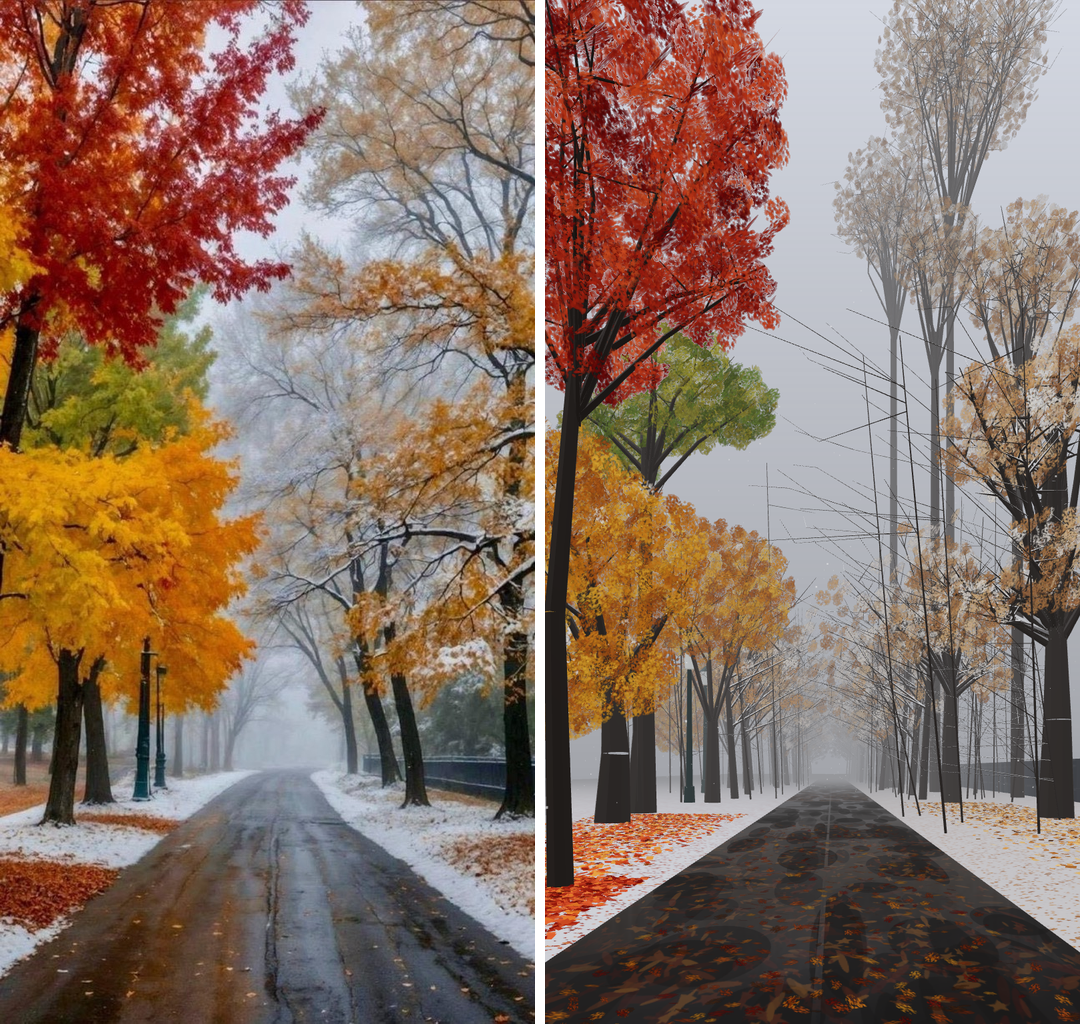
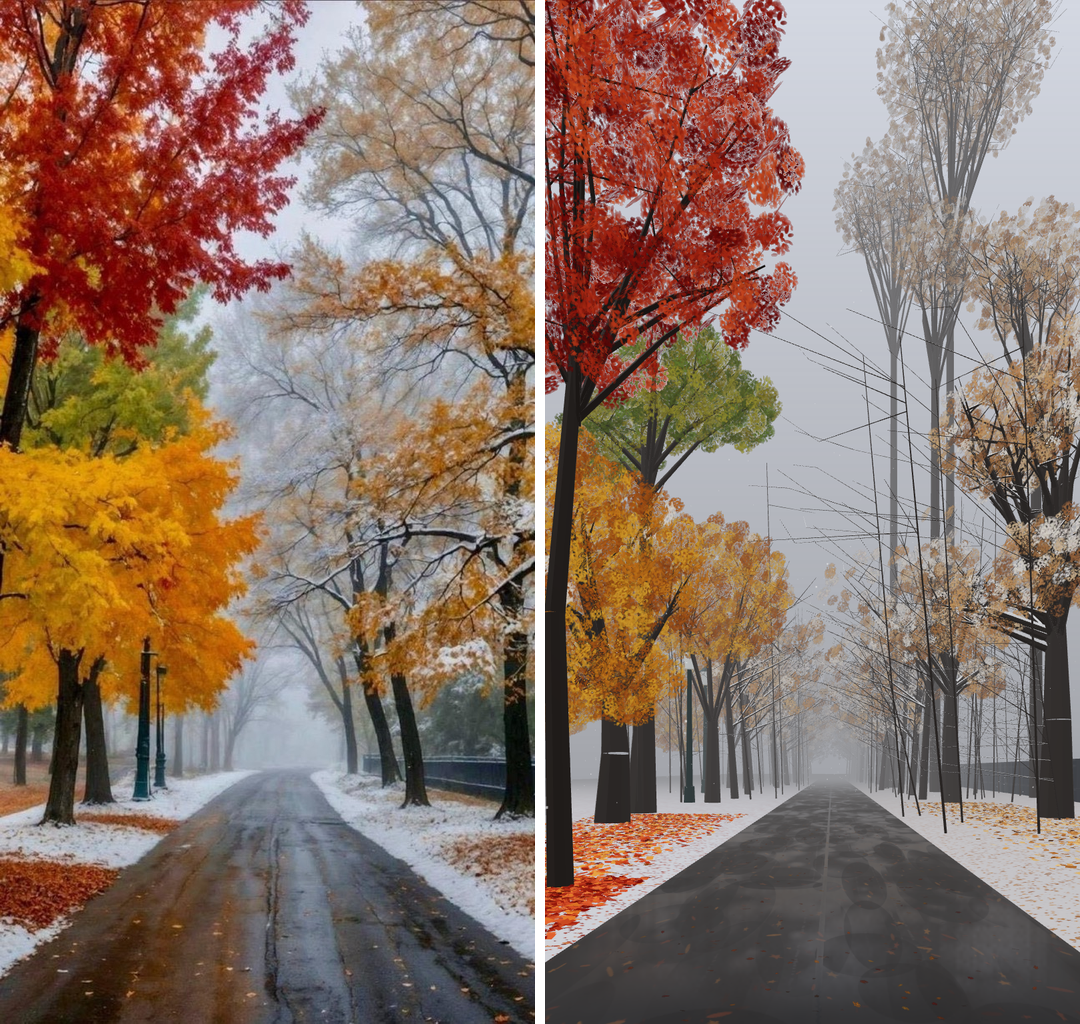
Slimmer road marks and litter; keep wet asphalt sheen
Shrink tyre streaks and puddle blobs that read as oversized footprints,
cut road leaf density, and restore wet clearcoat/reflection so the
surface stays muddy-wet rather than dry.

Changed region(s): [[0.4889, 0.0, 1.0, 0.75], [0.4889, 0.7812, 1.0, 1.0]]

diff --git a/src/textures.ts b/src/textures.ts
@@ -84,34 +84,33 @@ export function roadTextures(seed: number) {
     g.fillStyle = `rgba(${v + warm},${v + 2},${v},0.4)`;
     g.fillRect(r() * W, r() * H, 1 + r() * 2, 1 + r() * 2);
   }
-  // tyre / wet longitudinal streaks (broken, not clean lines)
-  for (let s = 0; s < 14; s++) {
-    const x0 = W * (0.08 + r() * 0.84);
-    const wobble = 3 + r() * 8;
-    for (let y = 0; y < H; y += 1) {
-      if (r() < 0.15) continue; // broken streak
-      const x = x0 + Math.sin(y * 0.008 + s) * wobble + (r() - 0.5) * 1.5;
-      const dark = 18 + r() * 22;
-      g.fillStyle = `rgba(${dark + 6},${dark + 2},${dark},0.35)`;
-      g.fillRect(x, y, 1.2 + r() * 2.5, 2);
-      // wetter = darker + smoother
-      rg.fillStyle = `rgba(${40 + r() * 30},${40 + r() * 30},${40 + r() * 30},0.45)`;
-      rg.fillRect(x - 0.5, y, 3 + r() * 3, 2);
+  // thin broken tyre / wet streaks (keep wet, avoid huge footprint blobs)
+  for (let s = 0; s < 6; s++) {
+    const x0 = W * (0.18 + r() * 0.64);
+    const wobble = 0.8 + r() * 2.2;
+    for (let y = 0; y < H; y += 2) {
+      if (r() < 0.35) continue;
+      const x = x0 + Math.sin(y * 0.01 + s) * wobble + (r() - 0.5) * 0.8;
+      const dark = 22 + r() * 20;
+      g.fillStyle = `rgba(${dark + 6},${dark + 2},${dark},0.28)`;
+      g.fillRect(x, y, 0.8 + r() * 1.2, 2);
+      rg.fillStyle = `rgba(${35 + r() * 25},${35 + r() * 25},${35 + r() * 25},0.4)`;
+      rg.fillRect(x - 0.3, y, 1.5 + r() * 1.5, 2);
     }
   }
-  // puddle mottling: dark wet patches (smooth in roughness)
-  for (let i = 0; i < 420; i++) {
+  // small wet puddle mottling (keep wet sheen, no giant footprint blobs)
+  for (let i = 0; i < 780; i++) {
     const x = r() * W, y = r() * H;
-    const w = 8 + r() * 70, h = 12 + r() * 160;
-    const mud = 28 + r() * 24;
+    const w = 5 + r() * 28, h = 6 + r() * 42;
+    const mud = 24 + r() * 22;
     const gr = g.createRadialGradient(x, y, 0, x, y, Math.max(w, h));
-    gr.addColorStop(0, `rgba(${mud + 10},${mud + 6},${mud},0.75)`);
-    gr.addColorStop(0.55, `rgba(${mud + 8},${mud + 4},${mud},0.35)`);
+    gr.addColorStop(0, `rgba(${mud + 10},${mud + 6},${mud},0.7)`);
+    gr.addColorStop(0.55, `rgba(${mud + 8},${mud + 4},${mud},0.32)`);
     gr.addColorStop(1, `rgba(${mud},${mud},${mud},0)`);
     g.fillStyle = gr; g.fillRect(x - w * 2, y - h * 2, w * 4, h * 4);
     const rr = rg.createRadialGradient(x, y, 0, x, y, Math.max(w, h));
-    rr.addColorStop(0, "rgba(15,15,15,0.85)"); // smooth wet
-    rr.addColorStop(0.6, "rgba(40,40,40,0.4)");
+    rr.addColorStop(0, "rgba(8,8,8,0.92)");
+    rr.addColorStop(0.55, "rgba(35,35,35,0.4)");
     rr.addColorStop(1, "rgba(40,40,40,0)");
     rg.fillStyle = rr; rg.fillRect(x - w * 2, y - h * 2, w * 4, h * 4);
   }
@@ -132,7 +131,7 @@ export function roadTextures(seed: number) {
 
   // leaf litter — denser toward near end of texture (high v = near camera when mapped)
   const leafCols = ["#9a4a18", "#b8701e", "#7a2a12", "#c48a2a", "#5a3a20", "#a85820", "#6b3010", "#d49830"];
-  for (let i = 0; i < 2400; i++) {
+  for (let i = 0; i < 900; i++) {
     // bias toward bottom half of texture (near road in view)
     const yBias = Math.pow(r(), 0.55);
     const y = H * (0.35 + 0.65 * yBias);
@@ -140,7 +139,7 @@ export function roadTextures(seed: number) {
     g.save();
     g.translate(x, y);
     g.rotate(r() * 6.3);
-    const s = 2.5 + r() * 5.5;
+    const s = 1.4 + r() * 2.8;
     g.scale(s, s * (1.6 + r()));
     g.globalAlpha = 0.75 + r() * 0.25;
     g.fillStyle = leafCols[Math.floor(r() * leafCols.length)];
@@ -151,11 +150,11 @@ export function roadTextures(seed: number) {
     rg.fillRect(x - 2, y - 2, 4, 4);
   }
   // mud splatter / brown wash near edges
-  for (let i = 0; i < 80; i++) {
+  for (let i = 0; i < 35; i++) {
     const side = r() < 0.5 ? r() * W * 0.2 : W * (0.8 + r() * 0.2);
     const y = r() * H;
     g.fillStyle = `rgba(55,42,28,${0.12 + r() * 0.2})`;
-    g.beginPath(); g.ellipse(side, y, 10 + r() * 30, 8 + r() * 25, 0, 0, Math.PI * 2); g.fill();
+    g.beginPath(); g.ellipse(side, y, 5 + r() * 14, 4 + r() * 12, 0, 0, Math.PI * 2); g.fill();
   }
 
   const map = new THREE.CanvasTexture(c), rough = new THREE.CanvasTexture(rc);

diff --git a/src/road.ts b/src/road.ts
@@ -38,18 +38,18 @@ export function wetRoadWithReflection(env: THREE.Texture | null, backend: "webgp
     roughnessMap: rough,
     envMap: env ?? undefined,
     color: "#726b64", // warm muddy asphalt
-    roughness: 0.72,
+    roughness: 0.55,
     metalness: 0,
-    clearcoat: 0.18,
-    clearcoatRoughness: 0.55,
-    envMapIntensity: useReflect ? 0.28 : 0.45,
+    clearcoat: 0.32,
+    clearcoatRoughness: 0.28,
+    envMapIntensity: useReflect ? 0.4 : 0.55,
   });
 
   if (rt) {
     mat.onBeforeCompile = (shader) => {
       shader.uniforms.tPlanarReflect = { value: rt.texture };
       shader.uniforms.uReflectMatrix = { value: reflectorMatrix };
-      shader.uniforms.uReflectMix = { value: 0.12 };
+      shader.uniforms.uReflectMix = { value: 0.24 };
       shader.uniforms.uReflectBlur = { value: 1.0 / rtSize };
       shader.vertexShader = shader.vertexShader
         .replace(
@@ -100,7 +100,7 @@ varying vec3 vPlanarWorldPos;
   // broken wet: only smooth puddles pick up reflection
   float wetMask = smoothstep( 0.55, 0.15, roughnessFactor );
   float mixAmt = uReflectMix * wetMask * edge * ( 0.25 + 0.55 * nearWet );
-  diffuseColor.rgb = mix( diffuseColor.rgb, refl, clamp( mixAmt, 0.0, 0.22 ) );
+  diffuseColor.rgb = mix( diffuseColor.rgb, refl, clamp( mixAmt, 0.0, 0.32 ) );
   // slight mud darken in near field
   diffuseColor.rgb *= mix( 1.0, 0.95, nearWet * 0.35 );
 }
@@ -108,7 +108,7 @@ varying vec3 vPlanarWorldPos;
 `,
         );
     };
-    mat.customProgramCacheKey = () => "wet-planar-reflect-v11";
+    mat.customProgramCacheKey = () => "wet-planar-reflect-v13-wet-slim";
   }
 
   const mesh = new THREE.Mesh(geo, mat);
@@ -132,9 +132,9 @@ varying vec3 vPlanarWorldPos;
   // leaf litter on wet asphalt — soft-alpha leaf cards, denser near camera like the photo
   {
     const r = (() => { let a = (params.seed + 91) >>> 0; return () => { a = (a + 0x6d2b79f5) >>> 0; let t = Math.imul(a ^ (a >>> 15), 1 | a); t = (t + Math.imul(t ^ (t >>> 7), 61 | t)) ^ t; return ((t ^ (t >>> 14)) >>> 0) / 4294967296; }; })();
-    const n = Math.round(2200 * params.density);
+    const n = Math.round(700 * params.density);
     const litter = new THREE.InstancedMesh(
-      new THREE.PlaneGeometry(0.16, 0.11).rotateX(-Math.PI / 2),
+      new THREE.PlaneGeometry(0.1, 0.07).rotateX(-Math.PI / 2),
       new THREE.MeshBasicMaterial({
         map: leafClump(params.seed + 3, true),
         alphaTest: 0.22,
@@ -153,7 +153,7 @@ varying vec3 vPlanarWorldPos;
       const z = -0.5 - along * 18;
       const x = cx + (r() - 0.5) * w * 0.78;
       e.set((r() - 0.5) * 0.5, r() * 6.3, (r() - 0.5) * 0.5);
-      const sc = 0.55 + r() * 0.9;
+      const sc = 0.35 + r() * 0.5;
       m.compose(new THREE.Vector3(x, 0.012 + r() * 0.008, z), q.setFromEuler(e), s.set(sc * (0.8 + r() * 0.5), 1, sc));
       litter.setMatrixAt(i, m);
       litter.setColorAt(i, c.set(cols[Math.floor(r() * cols.length)]).multiplyScalar(0.7 + r() * 0.35));
